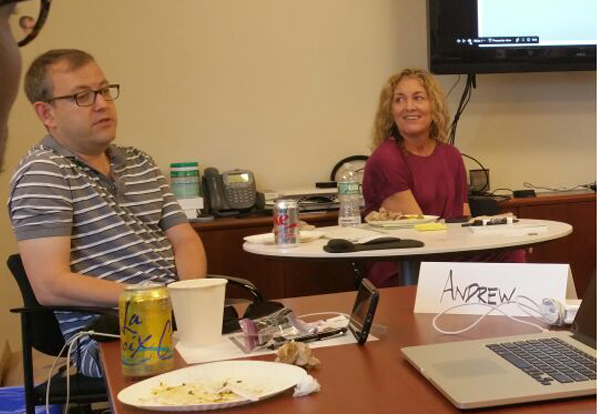
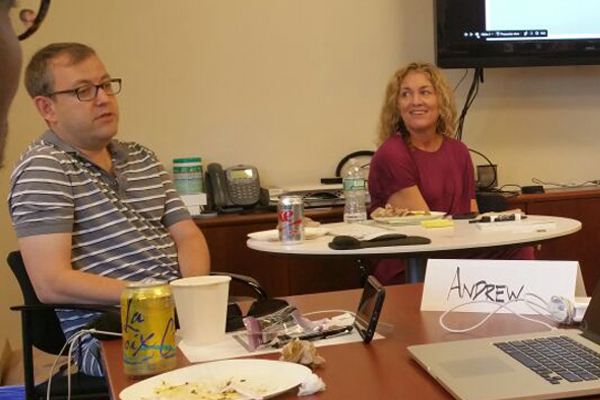
Image stuff - AE

diff --git a/index.html b/index.html
@@ -15,12 +15,12 @@
 		<img class="image" id="image1" src="images/Welcome.jpg">
 		<img class="image hide" id="image2" src="images/defhippo.jpg">
 		<img class="image hide" id="image3" src="images/Charlie_Tracy3.jpeg">
-		<img class="image hide" id="image4" src="images/RyannJones_ProPublica.jpeg">
+		<img class="image hide" id="image4" src="images/RyannJones_ProPublica.jpg">
 		<img class="image hide" id="image5" src="images/SnailSlide.jpg">
 		<img class="image hide" id="image6" src="images/TopherSanders2.jpg">
 		<img class="image hide" id="image7" src="images/DataWithDerek1.jpeg">
 		<img class="image hide" id="image8" src="images/scraping.jpg">
-		<img class="image hide" id="image9" src="images/SisiLena.JPG">
+		<img class="image hide" id="image9" src="images/LenaSisi.jpg">
 		<img class="image hide" id="image10" src="images/jumping.jpg">
 	</div>
 

diff --git a/styles.css b/styles.css
@@ -10,7 +10,7 @@ h1 {
   text-shadow: black 2px 2px 2px;
   position: absolute;
   bottom: 50px;
-  width: 1000px;
+  width: 700px;
   margin: 0 auto;
 }
 
@@ -21,11 +21,11 @@ p {
   color: white;
   position: absolute;
   bottom: 5px;
-  width: 1000px;
+  width: 700px;
 }
 
 .wrapper {
-  width: 1000px;
+  width: 700px;
   margin: 0 auto;
   z-index: 5;
 }
@@ -35,7 +35,7 @@ p {
 }
 
 .image {
-  width: 1000px;
+  width: 700px;
   position: absolute;
 }
 
@@ -44,5 +44,5 @@ p {
 }
 
 .imagecontainer {
-  width: 1000px;
+  width: 700px;
 }

diff --git a/script.js b/script.js
@@ -4,7 +4,7 @@ $(document).ready(function(){
 var quote1 = " ";
 var speaker1 = " ";
 
-var quote2 = "EYou can write def hippo?!";
+var quote2 = "You can write def hippo?!";
 var speaker2 = "-Tasnim Shamma";
 
 var quote3 = "The chair came to be a symbol of the project and the story. We had a whole section about the chairs. There was a line that said, Take for instance, the chair.";
@@ -100,10 +100,6 @@ $("img").click(function(){
 	} 
 
 	$("h1").fadeIn(500);
-
-
-
-
 
 
 });
